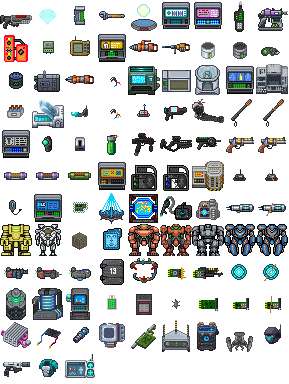
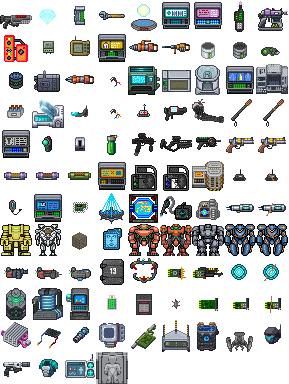
add new stuff to tech tree

Changed region(s): [[0.3114, 0.9062, 0.4671, 1.0]]

diff --git a/nano/css/shared.css b/nano/css/shared.css
@@ -969,6 +969,7 @@ th.bot {
 .icon-clarissa { background-position: -0px -352px; }
 .icon-traumateam { background-position: -32px -352px; }
 .icon-moetablet { background-position: -64px -352px; }
+.icon-cybercoffin { background-position: -96px -352px; }
 
 .sciMenuButton {
     width: 300px;
